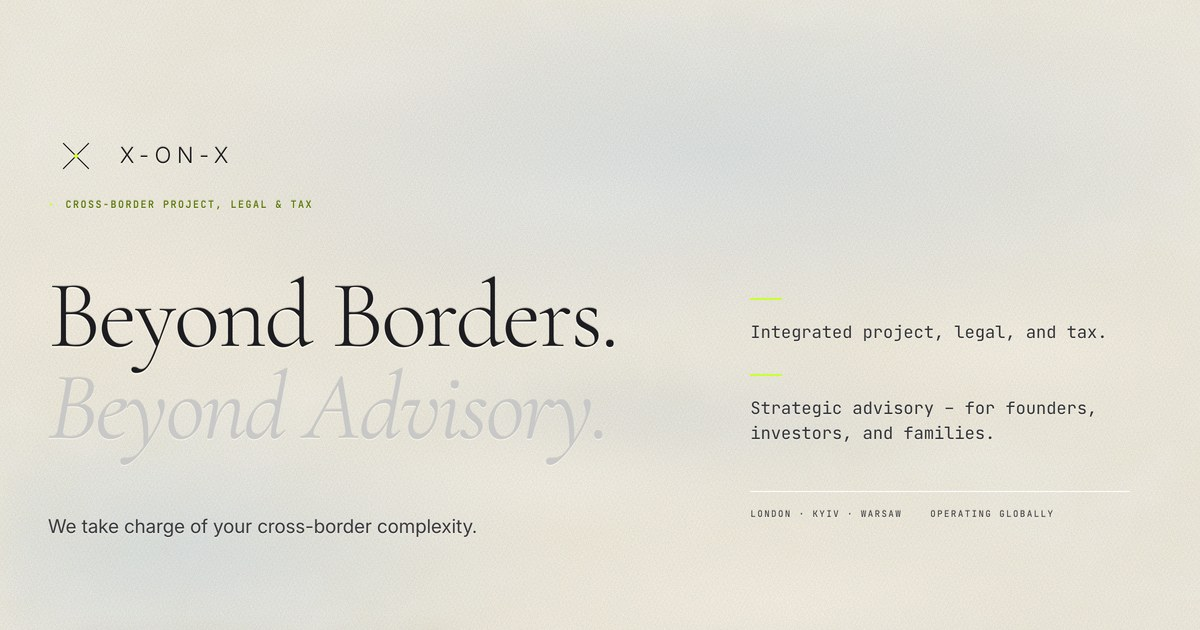
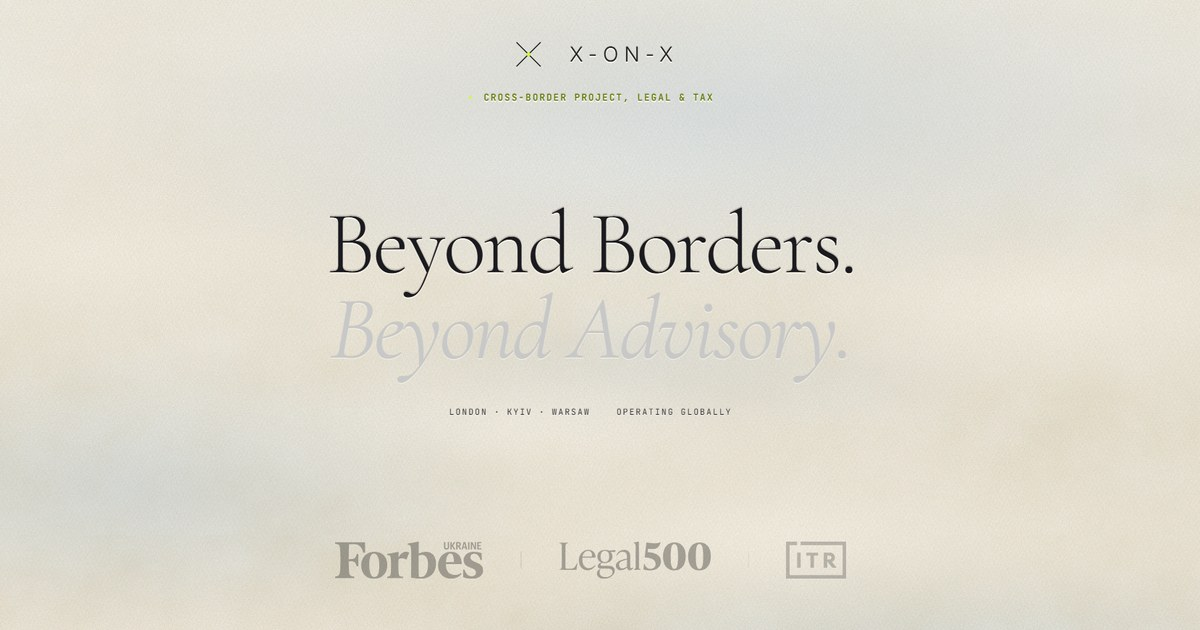
Link preview: the centred hero card with the three rankings
Replaces the left-aligned desktop hero render with the composition Iryna
supplied: logo, both lines of the wordmark, the city line and the Forbes
Ukraine / Legal500 / ITR row. Cover-cropped from 1658x906 to the 1200x630
that every scraper expects, which trims 18px of empty background off the
top and bottom and nothing else. Both builds now point at og.jpg?v=20260916h
so scrapers that key on the URL fetch it again.

diff --git a/index.html b/index.html
@@ -31,14 +31,14 @@
 <meta property="og:url" content="https://www.x-on-x.com/">
 <meta property="og:title" content="X-ON-X | Beyond Borders. Beyond Advisory.">
 <meta property="og:description" content="Integrated project, legal, and tax. Strategic advisory for founders, investors, and families. We take charge of your cross-border complexity.">
-<meta property="og:image" content="https://www.x-on-x.com/img/og.jpg">
+<meta property="og:image" content="https://www.x-on-x.com/img/og.jpg?v=20260916h">
 <meta property="og:image:width" content="1200">
 <meta property="og:image:height" content="630">
 <meta property="og:image:type" content="image/jpeg">
 <meta name="twitter:card" content="summary_large_image">
 <meta name="twitter:title" content="X-ON-X | Beyond Borders. Beyond Advisory.">
 <meta name="twitter:description" content="Integrated project, legal, and tax. Strategic advisory for founders, investors, and families.">
-<meta name="twitter:image" content="https://www.x-on-x.com/img/og.jpg">
+<meta name="twitter:image" content="https://www.x-on-x.com/img/og.jpg?v=20260916h">
 <link rel="preconnect" href="https://fonts.googleapis.com">
 <link rel="preconnect" href="https://fonts.gstatic.com" crossorigin>
 <link href="https://fonts.googleapis.com/css2?family=Cormorant+Garamond:ital,wght@0,300;0,400;0,500;0,600;0,700;1,300;1,400;1,500;1,600;1,700&family=Inter:ital,opsz,wght@0,14..32,100..900;1,14..32,100..900&family=JetBrains+Mono:ital,wght@0,100..800;1,100..800&display=swap" rel="stylesheet">

diff --git a/m.html b/m.html
@@ -51,14 +51,14 @@
 <meta property="og:url" content="https://www.x-on-x.com/">
 <meta property="og:title" content="X-ON-X | Beyond Borders. Beyond Advisory.">
 <meta property="og:description" content="Integrated project, legal, and tax. Strategic advisory for founders, investors, and families. We take charge of your cross-border complexity.">
-<meta property="og:image" content="https://www.x-on-x.com/img/og.jpg">
+<meta property="og:image" content="https://www.x-on-x.com/img/og.jpg?v=20260916h">
 <meta property="og:image:width" content="1200">
 <meta property="og:image:height" content="630">
 <meta property="og:image:type" content="image/jpeg">
 <meta name="twitter:card" content="summary_large_image">
 <meta name="twitter:title" content="X-ON-X | Beyond Borders. Beyond Advisory.">
 <meta name="twitter:description" content="Integrated project, legal, and tax. Strategic advisory for founders, investors, and families.">
-<meta name="twitter:image" content="https://www.x-on-x.com/img/og.jpg">
+<meta name="twitter:image" content="https://www.x-on-x.com/img/og.jpg?v=20260916h">
 <link rel="preconnect" href="https://fonts.googleapis.com">
 <link rel="preconnect" href="https://fonts.gstatic.com" crossorigin>
 <link href="https://fonts.googleapis.com/css2?family=Cormorant+Garamond:ital,wght@0,300;0,400;0,500;0,600;0,700;1,300;1,400;1,500;1,600;1,700&family=Inter:ital,opsz,wght@0,14..32,100..900;1,14..32,100..900&family=JetBrains+Mono:ital,wght@0,100..800;1,100..800&display=swap" rel="stylesheet">
